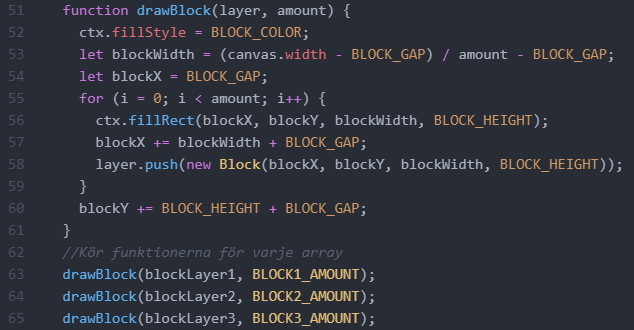
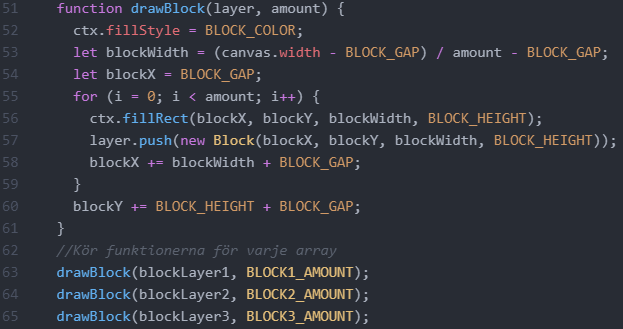
Mindre effektivisering

diff --git a/projektet/pages/om-utvecklingen.html b/projektet/pages/om-utvecklingen.html
@@ -122,7 +122,43 @@
       behöver vara genom att dela bredden på fönstret med antalet block, och
       lämna plats för lite utrymme mellan varje block. blockX variablen sätts
       så att den börjar skapa block med lite mellanrum mellan kanten. <br><br>
-      Sedan körs en </p>
+      Sedan körs en for-loop som ritar ut ett block, skapar en ny instance av
+      Block-klassen för det block som ritats ut och sist uppdaterar
+      x-koordinaten för nästa block som ska ritas. I slutet av funktionen
+      uppdateras blockY till det värde där nästa rad av block ska ritas ut.
+      <br><br>
+      Sedan kör vi alla funktioner för varje blocklager, med dess motsvarande
+      array och BLOCK*_AMOUNT konstant i parametern.</p>
+      <h3>Spelaren</h3>
+      <img src="../images/kod8.png"
+           alt="function drawPlayer() {
+                  ctx.clearRect(playerX, playerY, PLAYER_WIDTH, PLAYER_HEIGHT);
+                  ctx.fillStyle = PLAYER_COLOR;
+                  ctx.fillRect(playerX, playerY, PLAYER_WIDTH, PLAYER_HEIGHT);
+                }
+                drawPlayer();">
+      <p>Denna funktion används för att rita ut spelaren och är väldigt enkel.
+      Först suddas den förre bilden av rpelaren ut. Sedan sätts ritfärgen till
+      spelarens färg, sedan ritas spelaren ut på dess nuvarande koordinater med
+      den storlek som anges i konstanterna. Sedan ritas spelaren ut direkt, så
+      att den är utritad så fort spelet startats.</p>
+      <img src="../images/kod9.png"
+           alt="window.onkeypress = function (e) {
+                //Om trycker på z
+                if (e.keyCode == 122) {
+                  ctx.clearRect(playerX, playerY, PLAYER_WIDTH, PLAYER_HEIGHT);
+                  playerX -= MOVEMENT_SPEED;
+                  drawPlayer();
+                }
+                //Om trycker på x
+                else if (e.keyCode == 120) {
+                  ctx.clearRect(playerX, playerY, PLAYER_WIDTH, PLAYER_HEIGHT);
+                  playerX += MOVEMENT_SPEED;
+                  drawPlayer();
+                }
+              }">
+      <p>Här skapas en funktion som körs varje gång användaren trycker ner en
+      tangent. </p>
     </article>
     <footer>
       <p>Byggt av Thea Crona i kursen Webbutveckling 2.</p>

diff --git a/projektet/canvas.js b/projektet/canvas.js
@@ -66,6 +66,7 @@ function main() {
 
   //Ritar spelaren enligt angivna variabler & konstanter.
   function drawPlayer() {
+    ctx.clearRect(playerX, playerY, PLAYER_WIDTH, PLAYER_HEIGHT);
     ctx.fillStyle = PLAYER_COLOR;
     ctx.fillRect(playerX, playerY, PLAYER_WIDTH, PLAYER_HEIGHT);
   }
@@ -75,13 +76,11 @@ function main() {
   window.onkeypress = function (e) {
     //Om trycker på z
     if (e.keyCode == 122) {
-      ctx.clearRect(playerX, playerY, PLAYER_WIDTH, PLAYER_HEIGHT);
       playerX -= MOVEMENT_SPEED;
       drawPlayer();
     }
     //Om trycker på x
     else if (e.keyCode == 120) {
-      ctx.clearRect(playerX, playerY, PLAYER_WIDTH, PLAYER_HEIGHT);
       playerX += MOVEMENT_SPEED;
       drawPlayer();
     }
